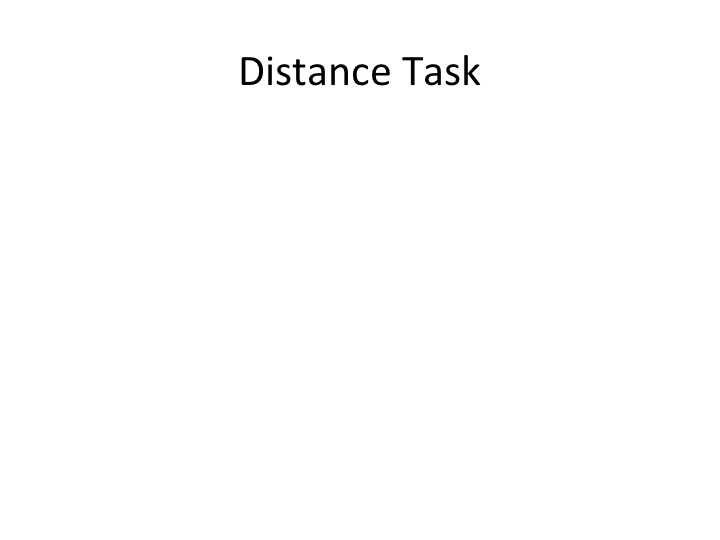
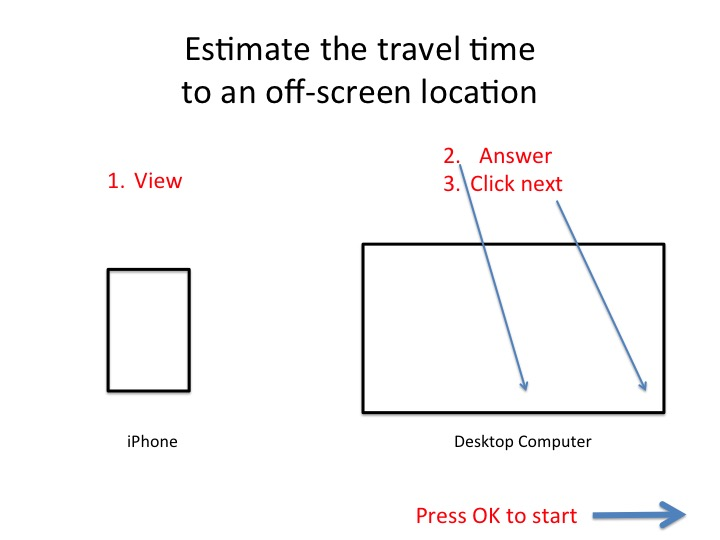
-added task instructions

diff --git a/Compass[transparent]/TestManager-RunStudy.mm b/Compass[transparent]/TestManager-RunStudy.mm
@@ -35,7 +35,7 @@ void TestManager::initTestEnv(TestManagerMode mode, bool instructPartner){
     
     
     //-----------
-    // Do a forced preload of the files
+    // Do a forced preload of the location files
     //-----------
     snapshot mySnapshot = model->snapshot_array[0];
     // Do not reload the location if it is already loaded
@@ -44,16 +44,39 @@ void TestManager::initTestEnv(TestManagerMode mode, bool instructPartner){
 
     
     //----------------------------
-    // Create one record for each snapshot
+    // - Create one record for each snapshot
+    // - Collect the snapshot categorical information
     //----------------------------
     record_vector.clear();
+    snapshotDistributionInfo.clear();
+    testCountWithinCategory.clear();
+    int count_within_category = 1;
     for (int i = 0; i < model->snapshot_array.size(); ++i){
+        
+        //-------------
+        // Create a record
+        //-------------
         record t_record;
         
         // Need to initialize id and code
         t_record.snapshot_id = i;
         t_record.code = model->snapshot_array[i].name;
         record_vector.push_back(t_record);
+        
+        //-------------
+        // Create a record
+        //-------------
+        snapshot mySnapshot = model->snapshot_array[i];
+        string code = extractCode(mySnapshot.name);
+        
+        if (snapshotDistributionInfo.find(code) == snapshotDistributionInfo.end()){
+            snapshotDistributionInfo[code] = 1;
+            count_within_category = 1;
+            testCountWithinCategory.push_back(count_within_category);
+        }else{
+            snapshotDistributionInfo[code] = snapshotDistributionInfo[code]+1;
+            testCountWithinCategory.push_back(++count_within_category);
+        }
     }
 
     //----------------------------
@@ -140,8 +163,6 @@ void TestManager::cleanupTestEnv(TestManagerMode mode, bool instructPartner){
         [rootViewController.nextTestButton setEnabled:NO];
         [rootViewController.previousTestButton setEnabled:NO];
         rootViewController.isShowAnswerAvailable = [NSNumber numberWithBool:NO];
-        
-        rootViewController.isShowAnswerAvailable = [NSNumber numberWithBool:NO];
         rootViewController.isDistanceEstControlAvailable =
         [NSNumber numberWithBool:NO];
         
@@ -203,6 +224,10 @@ void TestManager::toggleStudyMode(bool state, bool instructPartner){
     = [NSNumber numberWithBool:true];
 }
 
+
+//-------------------
+// Update test message
+//-------------------
 void TestManager::updateUITestMessage(){
     
 #ifdef __IPHONE__
@@ -223,11 +248,17 @@ void TestManager::updateUITestMessage(){
     //---------------
     
     if (testManagerMode == OFF){
-        rootViewController.testMessageTextField.stringValue =
+        rootViewController.testInformationMessage =
         @"Enable StudyMode from iOS";
     }else{
-        rootViewController.testMessageTextField.stringValue =
-        [NSString stringWithFormat:@"%@, %d/%lu",
+        
+        string code = extractCode(model->snapshot_array[test_counter].name);
+        
+        rootViewController.testInformationMessage =
+        [NSString stringWithFormat:@"%@, %d/%d\n%@, %d/%lu",
+         [NSString stringWithUTF8String:code.c_str()],
+         testCountWithinCategory[test_counter],
+         snapshotDistributionInfo[code],
          model->snapshot_array[test_counter].name,
          test_counter+1, model->snapshot_array.size()];
     }

diff --git a/Compass[transparent]/SnapShotViewController.mm b/Compass[transparent]/SnapShotViewController.mm
@@ -171,8 +171,12 @@
 //----------------
 - (IBAction)toggleStudyMode:(NSSegmentedControl*)sender {
     int state = [sender selectedSegment];
+    string warning_message;
     switch (state) {
         case 0:
+            //-------------------
+            // Disable study mode
+            //-------------------
             self.rootViewController.testManager->toggleStudyMode(NO, YES);
             self.rootViewController.renderer->label_flag = true;
 
@@ -183,17 +187,27 @@
             
             break;
         case 1:
+            //-------------------
+            // Enable study mode
+            //-------------------
             if (self.rootViewController.socket_status)
             {
-                [self.rootViewController displayPopupMessage:
-                 @"An open connection is detected. To sync with iOS, iOS needs to be manually set to the study mode (and choose the correct snapshot file)."];
+                warning_message =
+                 string("An open connection is detected.\n") +
+                 string("To sync with iOS, iOS needs to be manually put to the study mode (and choose the correct snapshot file).\n\n");
             }
             
             if ([self.rootViewController.model->desktopDropboxDataRoot
                  rangeOfString:@"study"].location != NSNotFound){
-                [self.rootViewController displayPopupMessage:
-                 @"You are in a study* folder. You need to manually change the folder on the iOS side and enable the study mode."];
+                warning_message = warning_message +
+                string("You are in a study* folder.") +
+                string("You need to manually change the folder on the iOS side and enable the study mode.");
+            }
+
+            if (warning_message.length() != 0){
                 self.rootViewController.testManager->toggleStudyMode(YES, NO);
+                [self.rootViewController displayPopupMessage:
+                 [NSString stringWithUTF8String:warning_message.c_str()]];
             }else{
                 self.rootViewController.testManager->toggleStudyMode(YES, YES);
             }

diff --git a/Compass[transparent]/UserStudyViewController.mm b/Compass[transparent]/UserStudyViewController.mm
@@ -89,8 +89,18 @@
         // Display port information
         //---------------
         int port = [[self.rootViewController.httpServer asyncSocket] localPort];
+        NSString* ip_string;
+        // Find the string starting with number
+        for (NSString* anItem : [[NSHost currentHost] addresses]){
+            if (isnumber([anItem characterAtIndex:0]))
+            {
+                ip_string = anItem;
+                break;
+            }
+        }
+        
         self.serverInfoString = [NSString stringWithFormat:@"Server IP: %@, port: %d",
-                                 [[[NSHost currentHost] addresses] objectAtIndex:1], port];
+                                 ip_string, port];
     }
 }
 
@@ -126,8 +136,8 @@
                [self.rootViewController.testManager->test_snapshot_prefix
                 stringByAppendingFormat:@"%@.snapshot", self.participant_id]                    ];
     
-    NSString* record_filename = [self.rootViewController.testManager->test_snapshot_prefix
-                                 stringByAppendingFormat:@"%@.record", self.participant_id];
+    NSString* record_filename = [NSString stringWithFormat:
+                                 @"participant%@.record", self.participant_id];
     NSString* record_filepath = [dbRoot stringByAppendingPathComponent:
                                  record_filename];
     
@@ -161,6 +171,11 @@
           record_filepath]){
         [self.rootViewController displayPopupMessage:
          [NSString stringWithFormat:@"%@ already exists.", record_filepath]];
+    }else{
+        // Update record filename
+        self.rootViewController.testManager->record_filename =
+        record_filename;
+        self.recordFileNameTextField.stringValue = record_filename;
     }
     
     // Load the practice file and enable other buttons

diff --git a/Compass[transparent]/TestManager.h b/Compass[transparent]/TestManager.h
@@ -150,9 +150,21 @@ class TestManager{
 public:
     
     //-----------------
-    // Parameters
+    // User Study Related Parameters
     //-----------------
     TestManagerMode testManagerMode;
+    
+    // Number of users
+    int participant_n;
+    int participant_id;
+    
+    //---------------
+    // Counters
+    //---------------
+    int test_counter;
+    double iOSAnswer;
+    
+    BOOL isRecordAutoSaved;
     
     //-----------------
     // Connection to other components
@@ -219,28 +231,14 @@ public:
     vector<snapshot> practice_snapshot_vector; // To store the practice snapshots
     vector<record> record_vector;
     vector<data> t_data_array; // This structure holds the generated locationss
-        
+    map<string, int> snapshotDistributionInfo;
+    vector<int> testCountWithinCategory;
+    
     //---------------
     // Random number generation
     //---------------
     int seed;
     std::mt19937  generator;
-    
-    //**********************
-    // User Study Related Parameters
-    //**********************
-    
-    // Number of users
-    int participant_n;
-    int participant_id;
-
-    //---------------
-    // Counters
-    //---------------
-    int test_counter;
-    double iOSAnswer;
-    
-    BOOL isRecordAutoSaved;
 public:
     //----------------
     // Methods
@@ -317,4 +315,11 @@ public:
     void saveRecord(); // Save test record to a file
 };
 
+//-----------------
+// Tools
+//-----------------
+inline string extractCode(NSString* snapshot_name){
+    NSRange range = [snapshot_name rangeOfString:@":" options:NSBackwardsSearch];
+    return string([[snapshot_name substringToIndex:range.location] UTF8String ]);
+}
 #endif /* defined(__Compass_transparent___TestManager__) */

diff --git a/Compass[transparent]/ConfigurationsWindowController+Configurations.mm b/Compass[transparent]/ConfigurationsWindowController+Configurations.mm
@@ -87,7 +87,8 @@
         
         // Find the string starting with number
         for (NSString* anItem : [[NSHost currentHost] addresses]){
-            if (isnumber([anItem characterAtIndex:0])){
+            if (isnumber([anItem characterAtIndex:0]))
+            {
                 self.server_ip = anItem;
                 break;
             }

diff --git a/Compass[transparent]/DesktopViewController.h b/Compass[transparent]/DesktopViewController.h
@@ -185,7 +185,7 @@ typedef struct{
 //----------------
 //Study
 //----------------
-@property (weak) IBOutlet NSTextField *testMessageTextField;
+@property NSString* testInformationMessage;
 @property (weak) IBOutlet NSButton *nextTestButton;
 @property (weak) IBOutlet NSButton *previousTestButton;
 

diff --git a/Compass[transparent]/TestManager-Record.mm b/Compass[transparent]/TestManager-Record.mm
@@ -151,5 +151,5 @@ void TestManager::saveRecord(){
     }
     
     [rootViewController displayPopupMessage:
-     [NSString stringWithFormat:@"%@ has been saved successfully.", record_filename]];
+     [NSString stringWithFormat:@"%@ has been saved successfully.", out_file]];
 }

diff --git a/Compass[transparent]/DesktopViewController+RunStudy.mm b/Compass[transparent]/DesktopViewController+RunStudy.mm
@@ -120,6 +120,8 @@
     
     // Start the test
     self.testManager->startTest();
+    
+    // Enable the buttons
     [self.nextTestButton setEnabled:YES];
     [self.previousTestButton setEnabled:YES];
 }
